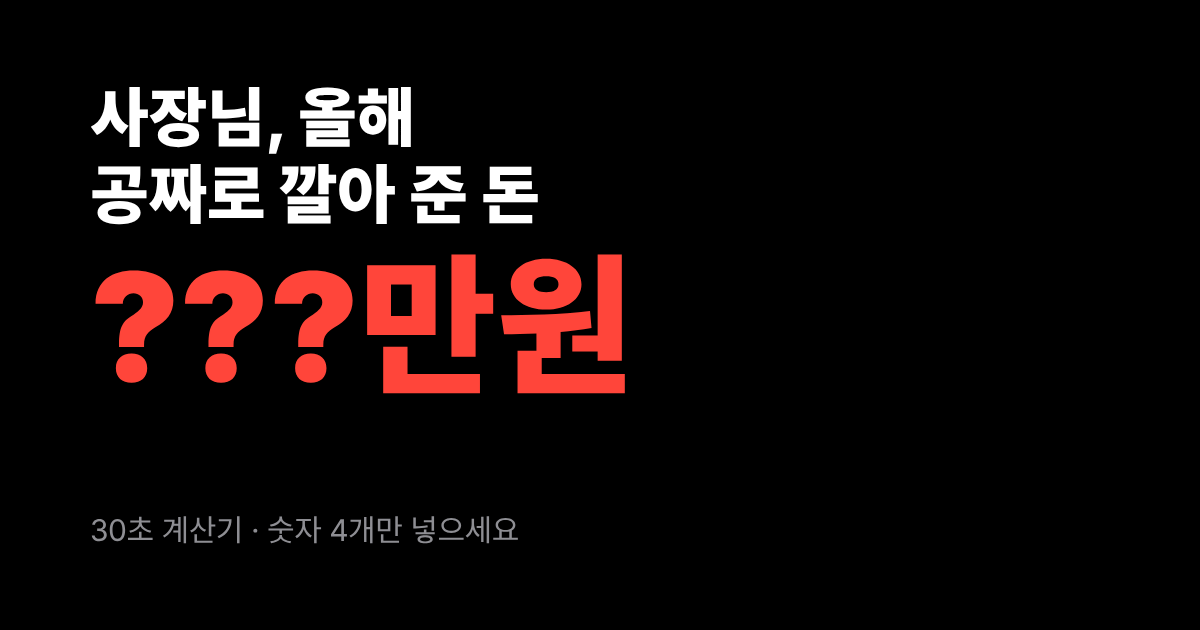
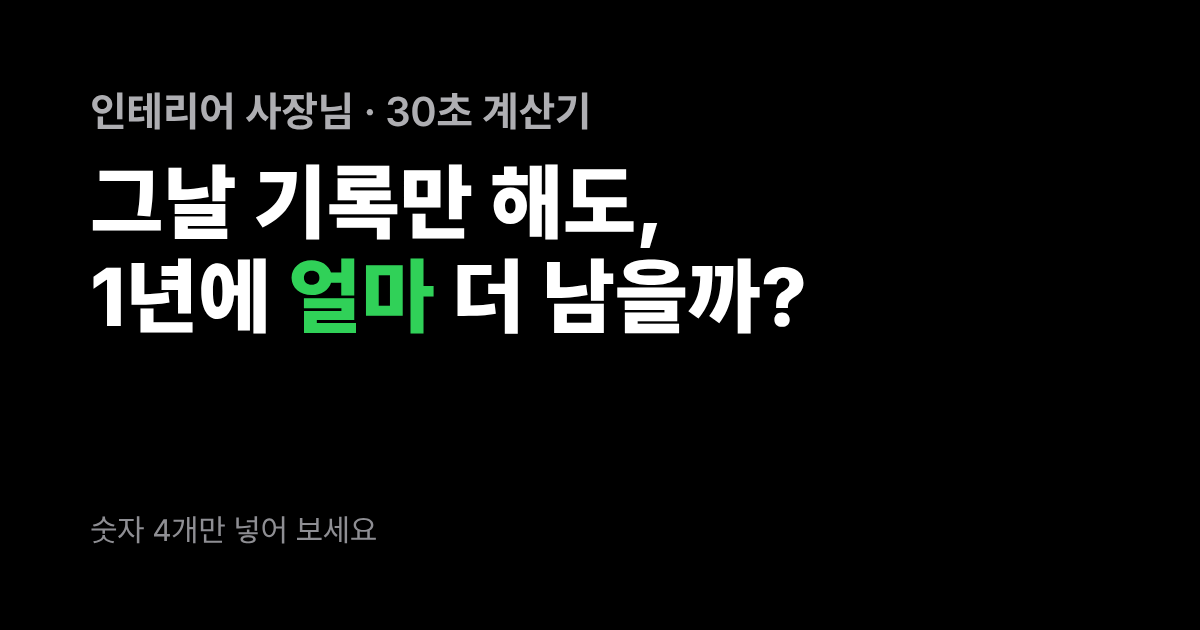
톤 정리: 누구 잘못도 아니고 둘 다 편해지게 (첫 화면, 계산기, 잔금 날 준비 체크, 미리보기 이미지)
Claude-Session: https://claude.ai/code/session_012R1LV9spP6UdVPtaoqqHFi

Changed region(s): [[0.0617, 0.1206, 0.6783, 0.6333], [0.0617, 0.8143, 0.4317, 0.8746]]

diff --git a/guide.html b/guide.html
@@ -20,7 +20,7 @@
 <meta name="naver-site-verification" content="c26779d6ccafb0ff2d4798c097d1d4aee5e84662">
 <link rel="icon" href="/favicon.svg" type="image/svg+xml">
 <link rel="stylesheet" href="/style.css">
-<script type="application/ld+json">{"@context": "https://schema.org", "@type": "CollectionPage", "name": "가이드", "url": "https://www.someonehastosayyes.com/guide", "hasPart": [{"@type": "Article", "headline": "추가공사할 때 고객한테 뭘 받아 둬야 나중에 안 싸우나요?", "url": "https://www.someonehastosayyes.com/guide/what-to-record"}, {"@type": "Article", "headline": "추가공사 금액, 고객 기분 안 상하게 말하는 법 (문장 10개)", "url": "https://www.someonehastosayyes.com/guide/how-to-talk-price"}, {"@type": "Article", "headline": "카톡으로 고객 확인 받는 3가지 방법", "url": "https://www.someonehastosayyes.com/guide/kakao-customer-confirm-methods"}, {"@type": "Article", "headline": "서비스로 해 준 것도 기록해 둬야 하나요?", "url": "https://www.someonehastosayyes.com/guide/record-free-service"}, {"@type": "Article", "headline": "고객이 전화로만 추가공사를 요청하면 어떻게 기록하죠?", "url": "https://www.someonehastosayyes.com/guide/phone-request-record"}, {"@type": "Article", "headline": "인테리어 잔금 정산서 만드는 법 (계산기 무료)", "url": "https://www.someonehastosayyes.com/guide/balance-settlement-sheet"}, {"@type": "Article", "headline": "잔금 날 고객이 깎아 달라고 하면 어떻게 대응하죠?", "url": "https://www.someonehastosayyes.com/guide/balance-day-discount"}, {"@type": "Article", "headline": "인테리어 추가공사 기록하는 방법·도구 비교 (종이·카톡·엑셀·앱)", "url": "https://www.someonehastosayyes.com/guide/extra-work-tools-compared"}, {"@type": "Article", "headline": "인테리어 추가공사 바가지 안 쓰는 법 5가지", "url": "https://www.someonehastosayyes.com/guide/homeowner-avoid-overcharge"}, {"@type": "Article", "headline": "인테리어 업체 고를 때 뭘 확인해야 해요? (체크리스트)", "url": "https://www.someonehastosayyes.com/guide/choose-contractor"}]}</script>
+<script type="application/ld+json">{"@context": "https://schema.org", "@type": "CollectionPage", "name": "가이드", "url": "https://www.someonehastosayyes.com/guide", "hasPart": [{"@type": "Article", "headline": "추가공사할 때 고객한테 뭘 받아 둬야 나중에 안 싸우나요?", "url": "https://www.someonehastosayyes.com/guide/what-to-record"}, {"@type": "Article", "headline": "추가공사 금액, 고객 기분 안 상하게 말하는 법 (문장 10개)", "url": "https://www.someonehastosayyes.com/guide/how-to-talk-price"}, {"@type": "Article", "headline": "카톡으로 고객 확인 받는 3가지 방법", "url": "https://www.someonehastosayyes.com/guide/kakao-customer-confirm-methods"}, {"@type": "Article", "headline": "서비스로 해 준 것도 기록해 둬야 하나요?", "url": "https://www.someonehastosayyes.com/guide/record-free-service"}, {"@type": "Article", "headline": "고객이 전화로만 추가공사를 요청하면 어떻게 기록하죠?", "url": "https://www.someonehastosayyes.com/guide/phone-request-record"}, {"@type": "Article", "headline": "인테리어 잔금 정산서 만드는 법 (계산기 무료)", "url": "https://www.someonehastosayyes.com/guide/balance-settlement-sheet"}, {"@type": "Article", "headline": "잔금 날 고객이 깎아 달라고 하면 어떻게 대응하죠?", "url": "https://www.someonehastosayyes.com/guide/balance-day-discount"}, {"@type": "Article", "headline": "인테리어 추가공사 기록하는 방법·도구 비교 (종이·카톡·엑셀·앱)", "url": "https://www.someonehastosayyes.com/guide/extra-work-tools-compared"}, {"@type": "Article", "headline": "인테리어 추가공사, 잔금 날 깔끔하게 끝내는 법 5가지", "url": "https://www.someonehastosayyes.com/guide/homeowner-avoid-overcharge"}, {"@type": "Article", "headline": "인테리어 업체 고를 때 뭘 확인해야 해요? (체크리스트)", "url": "https://www.someonehastosayyes.com/guide/choose-contractor"}]}</script>
 </head>
 <body>
 <header class="nav"><nav class="nav-in" aria-label="주 메뉴">
@@ -30,7 +30,7 @@
   <a class="pill" href="/try">체험하기</a>
 </nav></header>
 <main>
-<section class="band" style="padding-top:72px"><div class="wrap"><h1 style="font-size:clamp(40px,6vw,56px);margin:0">가이드</h1><p style="font-size:21px;color:var(--sub);margin:12px 0 0">추가공사를 그때그때 남기고, 잔금 때 깔끔하게 받는 방법.</p><h2 style="font-size:28px;text-align:left;margin:48px 0 18px">사장님을 위한 글</h2><div class="cards"><a class="card" href="/guide/what-to-record"><span class="tag">사장님을 위한 글</span><b>추가공사할 때 고객한테 뭘 받아 둬야 나중에 안 싸우나요?</b><p>내용, 금액, 일정, 고객의 확인 네 가지를 한 메시지에 남기면 됩니다. 이 네 가지가 같이 있어야 잔금 때 “그건 서비스인 줄 알았다”는 말이 나오지 않습니다.</p></a><a class="card" href="/guide/how-to-talk-price"><span class="tag">사장님을 위한 글</span><b>추가공사 금액, 고객 기분 안 상하게 말하는 법 (문장 10개)</b><p>추가 요청을 받은 그 자리에서 금액을 먼저 말하고, 바로 정리해서 보내는 것이 가장 덜 어색합니다. 미루면 잔금 때 같은 말이 ‘청구’로 들립니다.</p></a><a class="card" href="/guide/kakao-customer-confirm-methods"><span class="tag">사장님을 위한 글</span><b>카톡으로 고객 확인 받는 3가지 방법</b><p>① 정리 문구를 보내고 “확인했습니다” 답 받기, ② 확인서 사진이나 PDF를 보내고 답 받기, ③ 고객이 링크에서 [확인]을 누르게 하기. 세 방법 모두 내용·금액·일정이 고객 확인과 함께 남는다는 점이 핵심입니다.</p></a><a class="card" href="/guide/record-free-service"><span class="tag">사장님을 위한 글</span><b>서비스로 해 준 것도 기록해 둬야 하나요?</b><p>네, ‘서비스 0원’으로 기록해 두는 것이 좋습니다. 무엇이 공짜였는지가 남아 있어야 나머지 추가공사가 유료였다는 것도 분명해집니다.</p></a><a class="card" href="/guide/phone-request-record"><span class="tag">사장님을 위한 글</span><b>고객이 전화로만 추가공사를 요청하면 어떻게 기록하죠?</b><p>전화를 끊고 1분 안에 통화 내용을 카톡으로 정리해 보내고 고객 확인을 받으세요. 통화 자체보다 ‘통화 직후의 정리 메시지’가 훨씬 강한 기록입니다.</p></a><a class="card" href="/guide/balance-settlement-sheet"><span class="tag">사장님을 위한 글</span><b>인테리어 잔금 정산서 만드는 법 (계산기 무료)</b><p>잔금 = 기본 계약 금액 + 고객이 확인한 추가공사 합계 − 이미 받은 금액입니다. 확인받지 않은 추가공사는 따로 표시하고, 정산서는 잔금 날 3~5일 전에 미리 보내세요.</p></a><a class="card" href="/guide/balance-day-discount"><span class="tag">사장님을 위한 글</span><b>잔금 날 고객이 깎아 달라고 하면 어떻게 대응하죠?</b><p>감정 대신 확인 기록을 함께 보면서 ‘이미 합의한 금액’과 ‘새로운 요청’을 나누세요. 하자 지적은 잔금과 섞지 말고 보수 목록으로 따로 정리하는 것이 핵심입니다.</p></a><a class="card" href="/guide/extra-work-tools-compared"><span class="tag">사장님을 위한 글</span><b>인테리어 추가공사 기록하는 방법·도구 비교 (종이·카톡·엑셀·앱)</b><p>가장 중요한 건 도구가 아니라 매번 내용·금액·고객 확인을 남기는 습관입니다. 현장에서 바쁜 사장님이라면 고객이 직접 ‘확인’을 누르는 방식이 가장 빠르고 확실합니다.</p></a></div><h2 style="font-size:28px;text-align:left;margin:48px 0 18px">집주인을 위한 글</h2><div class="cards"><a class="card" href="/guide/homeowner-avoid-overcharge"><span class="tag">집주인을 위한 글</span><b>인테리어 추가공사 바가지 안 쓰는 법 5가지</b><p>추가공사 바가지는 대부분 ‘금액을 정하지 않고 진행한 공사’에서 생깁니다. 요청 전 금액 확인, 견적서 대조, 건별 확인서, 잔금 전 정산 확인 네 단계만 지키면 대부분 막을 수 있습니다.</p></a><a class="card" href="/guide/choose-contractor"><span class="tag">집주인을 위한 글</span><b>인테리어 업체 고를 때 뭘 확인해야 해요? (체크리스트)</b><p>포트폴리오와 가격만큼 중요한 건 ‘계약과 변경을 어떻게 처리하는 업체인가’입니다. 항목별 견적서, 계약서 작성, 변경 사항 확인서, 하자 보수 약속을 먼저 확인하세요.</p></a></div></div></section>
+<section class="band" style="padding-top:72px"><div class="wrap"><h1 style="font-size:clamp(40px,6vw,56px);margin:0">가이드</h1><p style="font-size:21px;color:var(--sub);margin:12px 0 0">추가공사를 그때그때 남기고, 잔금 때 깔끔하게 받는 방법.</p><h2 style="font-size:28px;text-align:left;margin:48px 0 18px">사장님을 위한 글</h2><div class="cards"><a class="card" href="/guide/what-to-record"><span class="tag">사장님을 위한 글</span><b>추가공사할 때 고객한테 뭘 받아 둬야 나중에 안 싸우나요?</b><p>내용, 금액, 일정, 고객의 확인 네 가지를 한 메시지에 남기면 됩니다. 이 네 가지가 같이 있어야 잔금 때 “그건 서비스인 줄 알았다”는 말이 나오지 않습니다.</p></a><a class="card" href="/guide/how-to-talk-price"><span class="tag">사장님을 위한 글</span><b>추가공사 금액, 고객 기분 안 상하게 말하는 법 (문장 10개)</b><p>추가 요청을 받은 그 자리에서 금액을 먼저 말하고, 바로 정리해서 보내는 것이 가장 덜 어색합니다. 미루면 잔금 때 같은 말이 ‘청구’로 들립니다.</p></a><a class="card" href="/guide/kakao-customer-confirm-methods"><span class="tag">사장님을 위한 글</span><b>카톡으로 고객 확인 받는 3가지 방법</b><p>① 정리 문구를 보내고 “확인했습니다” 답 받기, ② 확인서 사진이나 PDF를 보내고 답 받기, ③ 고객이 링크에서 [확인]을 누르게 하기. 세 방법 모두 내용·금액·일정이 고객 확인과 함께 남는다는 점이 핵심입니다.</p></a><a class="card" href="/guide/record-free-service"><span class="tag">사장님을 위한 글</span><b>서비스로 해 준 것도 기록해 둬야 하나요?</b><p>네, ‘서비스 0원’으로 기록해 두는 것이 좋습니다. 무엇이 공짜였는지가 남아 있어야 나머지 추가공사가 유료였다는 것도 분명해집니다.</p></a><a class="card" href="/guide/phone-request-record"><span class="tag">사장님을 위한 글</span><b>고객이 전화로만 추가공사를 요청하면 어떻게 기록하죠?</b><p>전화를 끊고 1분 안에 통화 내용을 카톡으로 정리해 보내고 고객 확인을 받으세요. 통화 자체보다 ‘통화 직후의 정리 메시지’가 훨씬 강한 기록입니다.</p></a><a class="card" href="/guide/balance-settlement-sheet"><span class="tag">사장님을 위한 글</span><b>인테리어 잔금 정산서 만드는 법 (계산기 무료)</b><p>잔금 = 기본 계약 금액 + 고객이 확인한 추가공사 합계 − 이미 받은 금액입니다. 확인받지 않은 추가공사는 따로 표시하고, 정산서는 잔금 날 3~5일 전에 미리 보내세요.</p></a><a class="card" href="/guide/balance-day-discount"><span class="tag">사장님을 위한 글</span><b>잔금 날 고객이 깎아 달라고 하면 어떻게 대응하죠?</b><p>감정 대신 확인 기록을 함께 보면서 ‘이미 합의한 금액’과 ‘새로운 요청’을 나누세요. 하자 지적은 잔금과 섞지 말고 보수 목록으로 따로 정리하는 것이 핵심입니다.</p></a><a class="card" href="/guide/extra-work-tools-compared"><span class="tag">사장님을 위한 글</span><b>인테리어 추가공사 기록하는 방법·도구 비교 (종이·카톡·엑셀·앱)</b><p>가장 중요한 건 도구가 아니라 매번 내용·금액·고객 확인을 남기는 습관입니다. 현장에서 바쁜 사장님이라면 고객이 직접 ‘확인’을 누르는 방식이 가장 빠르고 확실합니다.</p></a></div><h2 style="font-size:28px;text-align:left;margin:48px 0 18px">집주인을 위한 글</h2><div class="cards"><a class="card" href="/guide/homeowner-avoid-overcharge"><span class="tag">집주인을 위한 글</span><b>인테리어 추가공사, 잔금 날 깔끔하게 끝내는 법 5가지</b><p>잔금 날 금액이 서로 다르게 기억되는 일은 대부분 ‘금액을 정하지 않고 진행한 추가공사’에서 생깁니다. 요청 전 금액 확인, 견적서 대조, 건별 확인, 잔금 전 정산 확인 네 단계만 지키면 사장님도 고객도 편하게 끝낼 수 있습니다.</p></a><a class="card" href="/guide/choose-contractor"><span class="tag">집주인을 위한 글</span><b>인테리어 업체 고를 때 뭘 확인해야 해요? (체크리스트)</b><p>포트폴리오와 가격만큼 중요한 건 ‘계약과 변경을 어떻게 처리하는 업체인가’입니다. 항목별 견적서, 계약서 작성, 변경 사항 확인서, 하자 보수 약속을 먼저 확인하세요.</p></a></div></div></section>
 </main>
 <footer><div class="wrap">
   <p><a href="/guide">가이드</a><a href="/free">무료 양식</a><a href="/glossary">용어 사전</a><a href="/try">체험하기</a><a href="/about">소개</a></p>

diff --git a/guide/homeowner-avoid-overcharge.html b/guide/homeowner-avoid-overcharge.html
@@ -3,13 +3,13 @@
 <head>
 <meta charset="utf-8">
 <meta name="viewport" content="width=device-width, initial-scale=1">
-<title>인테리어 추가공사 바가지 안 쓰는 법 5가지 | 추가공사 확인</title>
-<meta name="description" content="추가공사 바가지는 대부분 ‘금액을 정하지 않고 진행한 공사’에서 생깁니다. 요청 전 금액 확인, 견적서 대조, 건별 확인서, 잔금 전 정산 확인 네 단계만 지키면 대부분 막을 수 있습니다.">
+<title>인테리어 추가공사, 잔금 날 깔끔하게 끝내는 법 5가지 | 추가공사 확인</title>
+<meta name="description" content="잔금 날 금액이 서로 다르게 기억되는 일은 대부분 ‘금액을 정하지 않고 진행한 추가공사’에서 생깁니다. 요청 전 금액 확인, 견적서 대조, 건별 확인, 잔금 전 정산 확인 네 단계만 지키면 사장님도 고객도 편하게 끝낼 수 있습니다.">
 <link rel="canonical" href="https://www.someonehastosayyes.com/guide/homeowner-avoid-overcharge">
 <meta property="og:type" content="article">
 <meta property="og:site_name" content="추가공사 확인">
-<meta property="og:title" content="인테리어 추가공사 바가지 안 쓰는 법 5가지">
-<meta property="og:description" content="추가공사 바가지는 대부분 ‘금액을 정하지 않고 진행한 공사’에서 생깁니다. 요청 전 금액 확인, 견적서 대조, 건별 확인서, 잔금 전 정산 확인 네 단계만 지키면 대부분 막을 수 있습니다.">
+<meta property="og:title" content="인테리어 추가공사, 잔금 날 깔끔하게 끝내는 법 5가지">
+<meta property="og:description" content="잔금 날 금액이 서로 다르게 기억되는 일은 대부분 ‘금액을 정하지 않고 진행한 추가공사’에서 생깁니다. 요청 전 금액 확인, 견적서 대조, 건별 확인, 잔금 전 정산 확인 네 단계만 지키면 사장님도 고객도 편하게 끝낼 수 있습니다.">
 <meta property="og:url" content="https://www.someonehastosayyes.com/guide/homeowner-avoid-overcharge">
 <meta property="og:locale" content="ko_KR">
 <meta property="og:image" content="https://www.someonehastosayyes.com/og/home.png">
@@ -20,7 +20,7 @@
 <meta name="naver-site-verification" content="c26779d6ccafb0ff2d4798c097d1d4aee5e84662">
 <link rel="icon" href="/favicon.svg" type="image/svg+xml">
 <link rel="stylesheet" href="/style.css">
-<script type="application/ld+json">{"@context": "https://schema.org", "@type": "Article", "headline": "인테리어 추가공사 바가지 안 쓰는 법 5가지", "description": "추가공사 바가지는 대부분 ‘금액을 정하지 않고 진행한 공사’에서 생깁니다. 요청 전 금액 확인, 견적서 대조, 건별 확인서, 잔금 전 정산 확인 네 단계만 지키면 대부분 막을 수 있습니다.", "datePublished": "2026-11-08", "dateModified": "2026-11-08", "inLanguage": "ko-KR", "mainEntityOfPage": "https://www.someonehastosayyes.com/guide/homeowner-avoid-overcharge", "author": {"@type": "Organization", "name": "Someone Has To Say Yes", "url": "https://www.someonehastosayyes.com/about", "email": "hello@someonehastosayyes.com"}, "publisher": {"@type": "Organization", "name": "Someone Has To Say Yes", "url": "https://www.someonehastosayyes.com", "logo": {"@type": "ImageObject", "url": "https://www.someonehastosayyes.com/logo.png"}}, "citation": ["https://www.lawtalk.co.kr/posts/164955"]}</script><script type="application/ld+json">{"@context": "https://schema.org", "@type": "FAQPage", "mainEntity": [{"@type": "Question", "name": "업체가 확인서를 귀찮아해요.", "acceptedAnswer": {"@type": "Answer", "text": "카톡 한 줄이면 된다고 말해 보세요. 변경 사항을 기록하는 업체가 대체로 정산도 깔끔합니다."}}, {"@type": "Question", "name": "추가공사 적정 단가를 어떻게 알죠?", "acceptedAnswer": {"@type": "Answer", "text": "다른 업체 견적과 비교하거나, 자재·인건비 내역을 나눠 달라고 요청하세요."}}, {"@type": "Question", "name": "계약금을 많이 달라고 해요.", "acceptedAnswer": {"@type": "Answer", "text": "공사 진행에 맞춰 나눠 지급하는 구조가 서로 안전합니다."}}]}</script><script type="application/ld+json">{"@context": "https://schema.org", "@type": "BreadcrumbList", "itemListElement": [{"@type": "ListItem", "position": 1, "name": "가이드", "item": "https://www.someonehastosayyes.com/guide"}, {"@type": "ListItem", "position": 2, "name": "인테리어 추가공사 바가지 안 쓰는 법 5가지", "item": "https://www.someonehastosayyes.com/guide/homeowner-avoid-overcharge"}]}</script>
+<script type="application/ld+json">{"@context": "https://schema.org", "@type": "Article", "headline": "인테리어 추가공사, 잔금 날 깔끔하게 끝내는 법 5가지", "description": "잔금 날 금액이 서로 다르게 기억되는 일은 대부분 ‘금액을 정하지 않고 진행한 추가공사’에서 생깁니다. 요청 전 금액 확인, 견적서 대조, 건별 확인, 잔금 전 정산 확인 네 단계만 지키면 사장님도 고객도 편하게 끝낼 수 있습니다.", "datePublished": "2026-11-08", "dateModified": "2026-11-08", "inLanguage": "ko-KR", "mainEntityOfPage": "https://www.someonehastosayyes.com/guide/homeowner-avoid-overcharge", "author": {"@type": "Organization", "name": "Someone Has To Say Yes", "url": "https://www.someonehastosayyes.com/about", "email": "hello@someonehastosayyes.com"}, "publisher": {"@type": "Organization", "name": "Someone Has To Say Yes", "url": "https://www.someonehastosayyes.com", "logo": {"@type": "ImageObject", "url": "https://www.someonehastosayyes.com/logo.png"}}, "citation": ["https://www.lawtalk.co.kr/posts/164955"]}</script><script type="application/ld+json">{"@context": "https://schema.org", "@type": "FAQPage", "mainEntity": [{"@type": "Question", "name": "사장님께 확인서를 어떻게 부탁하죠?", "acceptedAnswer": {"@type": "Answer", "text": "“추가된 건 카톡으로 한 줄씩 정리해 주실 수 있을까요?”라고 부탁해 보세요. 서로 기억을 맞춰 두는 거라 대부분 반겨요."}}, {"@type": "Question", "name": "추가공사 적정 단가를 어떻게 알죠?", "acceptedAnswer": {"@type": "Answer", "text": "다른 업체 견적과 비교하거나, 자재·인건비 내역을 나눠 달라고 요청하세요."}}, {"@type": "Question", "name": "계약금을 많이 달라고 해요.", "acceptedAnswer": {"@type": "Answer", "text": "공사 진행에 맞춰 나눠 지급하는 구조가 서로 안전합니다."}}]}</script><script type="application/ld+json">{"@context": "https://schema.org", "@type": "BreadcrumbList", "itemListElement": [{"@type": "ListItem", "position": 1, "name": "가이드", "item": "https://www.someonehastosayyes.com/guide"}, {"@type": "ListItem", "position": 2, "name": "인테리어 추가공사, 잔금 날 깔끔하게 끝내는 법 5가지", "item": "https://www.someonehastosayyes.com/guide/homeowner-avoid-overcharge"}]}</script>
 </head>
 <body>
 <header class="nav"><nav class="nav-in" aria-label="주 메뉴">
@@ -33,11 +33,11 @@
 <article class="narrow">
   <div class="art-head">
     <p class="crumb"><a href="/guide">가이드</a> › 집주인을 위한 글</p>
-    <h1>인테리어 추가공사 바가지 안 쓰는 법 5가지</h1>
+    <h1>인테리어 추가공사, 잔금 날 깔끔하게 끝내는 법 5가지</h1>
     <p class="meta">최종 업데이트 <time datetime="2026-11-08">2026. 11. 08.</time></p>
   </div>
   <div class="prose">
-    <div class="answer">추가공사 바가지는 대부분 ‘금액을 정하지 않고 진행한 공사’에서 생깁니다. 요청 전 금액 확인, 견적서 대조, 건별 확인서, 잔금 전 정산 확인 네 단계만 지키면 대부분 막을 수 있습니다.</div>
+    <div class="answer">잔금 날 금액이 서로 다르게 기억되는 일은 대부분 ‘금액을 정하지 않고 진행한 추가공사’에서 생깁니다. 요청 전 금액 확인, 견적서 대조, 건별 확인, 잔금 전 정산 확인 네 단계만 지키면 사장님도 고객도 편하게 끝낼 수 있습니다.</div>
     <section class="glance"><h2>한눈에 보기</h2><ul><li>>
 <li>계약 때 견적서를 꼼꼼히 받아 두기</li>
 <</li><li> start="2">
@@ -50,17 +50,17 @@
 <li>잔금 전에 목록·합계 미리 받기</li>
 <</li></ul></section>
     <h2>5가지 자세히</h2><p><strong>1. 견적서가 기준입니다.</strong> 견적서에 있는 범위면 추가가 아닙니다. 계약할 때 항목별 견적서를 받아 두세요.</p>
-<p><strong>2. 금액 먼저.</strong> “이것도 해 주세요” 다음에 “얼마예요?”를 붙이세요. 금액 없이 진행한 공사가 나중에 가장 크게 불어납니다.</p>
-<p><strong>3. 건별 확인서.</strong> 추가될 때마다 내용·금액·일정을 카톡으로 정리받으세요. 업체가 보내 주지 않으면 “정리해서 보내 주세요”라고 요청하세요.</p>
+<p><strong>2. 금액 먼저.</strong> “이것도 해 주세요” 다음에 “얼마예요?”를 붙이세요. 금액 없이 진행한 공사가 나중에 서로 다르게 기억되기 쉽습니다.</p>
+<p><strong>3. 건별 확인서.</strong> 추가될 때마다 내용·금액·일정을 카톡으로 정리받으세요. 먼저 “정리해서 보내 주실 수 있을까요?”라고 부탁해도 좋아요.</p>
 <p><strong>4. 서비스 확인.</strong> 무료라고 들었으면 “서비스 맞죠?”라고 남겨 두세요.</p>
-<p><strong>5. 잔금 전 정산.</strong> 잔금 며칠 전에 추가공사 목록과 합계를 받아 견적서·확인서와 맞춰 보세요.</p><h2>이미 이상한 청구를 받았다면</h2><p>업체가 추가금을 받으려면 추가공사와 대금 합의를 증명해야 합니다 (<a href="https://www.lawtalk.co.kr/posts/164955" target="_blank" rel="noopener">로톡</a>). 항목별 근거를 요청하고, 합의한 적 없는 항목만 따로 이야기하세요. 자세한 내용은 업체가 추가금을 달라는데 꼭 내야 하나요?를 보세요.</p>
+<p><strong>5. 잔금 전 정산.</strong> 잔금 며칠 전에 추가공사 목록과 합계를 받아 견적서·확인서와 맞춰 보세요.</p><h2>잔금 때 금액이 예상과 다르다면</h2><p>업체가 추가금을 받으려면 추가공사와 대금 합의를 증명해야 합니다 (<a href="https://www.lawtalk.co.kr/posts/164955" target="_blank" rel="noopener">로톡</a>). 항목별로 함께 맞춰 보고, 서로 기억이 다른 항목만 따로 이야기하세요. 자세한 내용은 업체가 추가금을 달라는데 꼭 내야 하나요?를 보세요.</p>
     <section class="prevent"><h2>집주인이 미리 할 수 있는 것</h2><ol>
 <li><strong>계약할 때 한 문장 요청:</strong> “공사 중 바뀌거나 추가되는 건 그때그때 내용·금액을 카톡이나 확인서로 주세요.”</li>
 <li><strong>추가 요청은 금액부터:</strong> “이것도 해 주세요” 다음에 “얼마예요?”를 꼭 붙이세요. 서비스라면 “서비스 맞죠?”라고 확인해 두세요.</li>
 <li><strong>받은 확인서는 보관:</strong> 확인서나 카톡을 지우지 말고, 잔금 전에 목록과 합계를 한 번 맞춰 보세요.</li>
 </ol>
 <p>변경 사항마다 확인서를 주는 업체는 대체로 정산도 깔끔합니다. <a href="/guide/choose-contractor">업체 고를 때 체크리스트</a>도 참고하세요.</p></section>
-    <section class="faq"><h2>자주 묻는 질문</h2><details><summary>업체가 확인서를 귀찮아해요.</summary><div><p>카톡 한 줄이면 된다고 말해 보세요. 변경 사항을 기록하는 업체가 대체로 정산도 깔끔합니다.</p></div></details><details><summary>추가공사 적정 단가를 어떻게 알죠?</summary><div><p>다른 업체 견적과 비교하거나, 자재·인건비 내역을 나눠 달라고 요청하세요.</p></div></details><details><summary>계약금을 많이 달라고 해요.</summary><div><p>공사 진행에 맞춰 나눠 지급하는 구조가 서로 안전합니다.</p></div></details></section>
+    <section class="faq"><h2>자주 묻는 질문</h2><details><summary>사장님께 확인서를 어떻게 부탁하죠?</summary><div><p>“추가된 건 카톡으로 한 줄씩 정리해 주실 수 있을까요?”라고 부탁해 보세요. 서로 기억을 맞춰 두는 거라 대부분 반겨요.</p></div></details><details><summary>추가공사 적정 단가를 어떻게 알죠?</summary><div><p>다른 업체 견적과 비교하거나, 자재·인건비 내역을 나눠 달라고 요청하세요.</p></div></details><details><summary>계약금을 많이 달라고 해요.</summary><div><p>공사 진행에 맞춰 나눠 지급하는 구조가 서로 안전합니다.</p></div></details></section>
     <section class="sources"><h2>출처</h2><ul><li><a href="https://www.lawtalk.co.kr/posts/164955" target="_blank" rel="noopener">공사대금 증액 분쟁 — 추가공사 지시받았는데 계약서에 없다면 (로톡)</a></li></ul><p class="disclaimer">이 글은 일반적인 정보이며 개별 사건에 대한 법률 자문이 아닙니다. 구체적인 사건은 변호사와 상담하세요.</p></section>
   </div>
 </article>

diff --git a/ready.html b/ready.html
@@ -1,0 +1,96 @@
+<!DOCTYPE html>
+<html lang="ko">
+<head>
+<meta charset="utf-8">
+<meta name="viewport" content="width=device-width, initial-scale=1">
+<title>잔금 날, 깔끔하게 끝낼 준비 됐나요? | 추가공사 확인</title>
+<meta name="description" content="인테리어 공사 중인 집을 위한 30초 체크. 다섯 가지만 확인하면 사장님도 우리 집도 잔금 날이 편해요.">
+<link rel="canonical" href="https://www.someonehastosayyes.com/ready">
+<meta property="og:type" content="website">
+<meta property="og:site_name" content="추가공사 확인">
+<meta property="og:title" content="잔금 날, 깔끔하게 끝낼 준비 됐나요?">
+<meta property="og:description" content="인테리어 공사 중인 집을 위한 30초 체크. 다섯 가지만 확인하면 사장님도 우리 집도 잔금 날이 편해요.">
+<meta property="og:url" content="https://www.someonehastosayyes.com/ready">
+<meta property="og:locale" content="ko_KR">
+<meta property="og:image" content="https://www.someonehastosayyes.com/og/ready.png">
+<meta property="og:image:width" content="1200">
+<meta property="og:image:height" content="630">
+<meta name="twitter:card" content="summary_large_image">
+<meta name="theme-color" content="#FFFFFF">
+<meta name="naver-site-verification" content="c26779d6ccafb0ff2d4798c097d1d4aee5e84662">
+<link rel="icon" href="/favicon.svg" type="image/svg+xml">
+<link rel="stylesheet" href="/style.css">
+<script type="application/ld+json">{"@context": "https://schema.org", "@type": "WebApplication", "name": "잔금 날 준비 체크", "applicationCategory": "LifestyleApplication", "operatingSystem": "Web", "offers": {"@type": "Offer", "price": "0", "priceCurrency": "KRW"}, "url": "https://www.someonehastosayyes.com/ready"}</script>
+</head>
+<body>
+<header class="nav"><nav class="nav-in" aria-label="주 메뉴">
+  <a class="brand" href="/"><i aria-hidden="true">✓</i>추가공사 확인</a>
+  <a href="/guide">가이드</a>
+  <a class="hide-s" href="/free">무료 양식</a>
+  <a class="pill" href="/try">체험하기</a>
+</nav></header>
+<main>
+<section class="tool">
+  <div class="friend" id="friend"></div>
+  <h1>잔금 날, 깔끔하게 끝낼 준비 됐나요?</h1>
+  <p class="sub">인테리어 공사 중이라면 30초만. 다섯 가지만 확인하면 사장님도 우리 집도 잔금 날이 편해요.</p>
+  <div class="q"><span class="ql">1. 추가로 부탁한 것마다 금액을 알고 있다</span><div class="yn" data-i="0"><button type="button" data-v="1">네</button><button type="button" data-v="0">아직이요</button></div></div><div class="q"><span class="ql">2. 부탁한 내용이 카톡이나 문자로 남아 있다</span><div class="yn" data-i="1"><button type="button" data-v="1">네</button><button type="button" data-v="0">아직이요</button></div></div><div class="q"><span class="ql">3. ‘서비스’로 해 주신 것은 서비스라고 서로 확인했다</span><div class="yn" data-i="2"><button type="button" data-v="1">네</button><button type="button" data-v="0">아직이요</button></div></div><div class="q"><span class="ql">4. 일정이 바뀐 것이 있다면 언제까지인지 알고 있다</span><div class="yn" data-i="3"><button type="button" data-v="1">네</button><button type="button" data-v="0">아직이요</button></div></div><div class="q"><span class="ql">5. 잔금 전에 추가공사 목록과 합계를 받기로 했다</span><div class="yn" data-i="4"><button type="button" data-v="1">네</button><button type="button" data-v="0">아직이요</button></div></div>
+  <div id="res" class="hidden">
+    <div class="result" aria-live="polite"><div class="lab">우리 집 잔금 날 준비</div><div class="num" id="level"></div><p id="desc"></p></div>
+    <div class="tips"><b>이렇게 하면 더 편해요</b><ol>
+      <li>사장님께 “추가된 것 목록이랑 금액, 정리해서 보내 주실 수 있을까요?”라고 부탁해 보세요.</li>
+      <li>앞으로 추가로 부탁할 때는 “얼마 정도일까요?”를 같이 여쭤보세요.</li>
+      <li>받은 목록은 잘 보관해 두고, 잔금 날 합계를 함께 맞춰 보세요.</li>
+    </ol></div>
+    <div class="actions">
+      <button class="pill kakao-btn" id="toOwner" type="button">사장님께 정리 부탁드리기</button>
+      <button class="pill light" id="toFriend" type="button">공사 중인 친구한테 보내기</button>
+    </div>
+    <p class="note">답한 내용은 저장하지 않아요.</p>
+  </div>
+</section>
+<script>
+
+function share(text, url) {
+  var full = text + '\n' + url;
+  if (navigator.share) { navigator.share({ text: text, url: url }).catch(function () {}); return; }
+  var done = function () { var t = document.createElement('div'); t.className = 'toast2'; t.textContent = '복사됐어요. 카톡 대화방에 붙여 넣으세요'; document.body.appendChild(t); setTimeout(function () { t.remove(); }, 2200); };
+  if (navigator.clipboard) navigator.clipboard.writeText(full).then(done, done); else { window.prompt('복사해서 보내세요', full); }
+}
+
+var A = {};
+var LV = [['미리 정리해 두면 좋아요', '지금 사장님께 한 번 정리를 부탁드리면 잔금 날이 훨씬 편해져요.'], ['미리 정리해 두면 좋아요', '지금 사장님께 한 번 정리를 부탁드리면 잔금 날이 훨씬 편해져요.'],
+  ['거의 다 됐어요', '빠진 것만 사장님과 한 번 맞춰 두면 돼요.'], ['거의 다 됐어요', '빠진 것만 사장님과 한 번 맞춰 두면 돼요.'],
+  ['거의 다 됐어요', '빠진 것만 사장님과 한 번 맞춰 두면 돼요.'], ['준비 완료', '사장님과 이미 잘 정리돼 있어요. 잔금 날 편하게 끝낼 수 있어요.']];
+function show() {
+  if (Object.keys(A).length < 5) return;
+  var s = 0; for (var k in A) s += A[k];
+  var r = document.getElementById('res'); r.classList.remove('hidden');
+  var lv = document.getElementById('level'); lv.textContent = LV[s][0]; lv.style.fontSize = '40px';
+  document.getElementById('desc').textContent = '5개 중 ' + s + '개 준비 · ' + LV[s][1];
+  r.dataset.s = s;
+  if (!show.done) { show.done = 1; r.scrollIntoView({ behavior: 'smooth', block: 'start' }); }
+}
+document.querySelectorAll('.yn').forEach(function (g) {
+  g.querySelectorAll('button').forEach(function (b) {
+    b.onclick = function () { g.querySelectorAll('button').forEach(function (x) { x.classList.remove('on'); }); b.classList.add('on'); A[g.dataset.i] = +b.dataset.v; show(); };
+  });
+});
+var f = new URLSearchParams(location.search).get('r');
+if (f && LV[+f]) { var fb = document.getElementById('friend'); fb.style.display = 'block'; fb.textContent = '친구네 집은 “' + LV[+f][0] + '”이래요. 우리 집도 확인해 볼까요?'; }
+document.getElementById('toOwner').onclick = function () {
+  share('사장님~ 추가로 부탁드린 것들, 금액이랑 같이 카톡으로 한 줄씩 정리해 주실 수 있을까요? 이걸로 보내 주시면 저는 확인만 누르면 된대요 :)', 'https://www.someonehastosayyes.com/try');
+};
+document.getElementById('toFriend').onclick = function () {
+  var s = document.getElementById('res').dataset.s || 0;
+  share('인테리어 잔금 날 준비 체크 해 봤는데 “' + LV[s][0] + '” 나왔어. 공사 중이면 너도 해 봐', 'https://www.someonehastosayyes.com/ready?r=' + s);
+};
+</script>
+</main>
+<footer><div class="wrap">
+  <p><a href="/guide">가이드</a><a href="/free">무료 양식</a><a href="/glossary">용어 사전</a><a href="/try">체험하기</a><a href="/about">소개</a></p>
+  <p>인테리어 추가공사를 그때그때 기록하고, 고객 확인까지 받는 무료 도구입니다.<br>이 사이트의 글은 일반적인 정보이며 개별 사건에 대한 법률 자문이 아닙니다.</p>
+  <p>Someone Has To Say Yes · <a href="mailto:hello@someonehastosayyes.com" style="margin:0">hello@someonehastosayyes.com</a> · 최종 업데이트 2026-11-08</p>
+</div></footer>
+</body>
+</html>

diff --git a/loss.html b/loss.html
@@ -3,13 +3,13 @@
 <head>
 <meta charset="utf-8">
 <meta name="viewport" content="width=device-width, initial-scale=1">
-<title>사장님, 올해 공짜로 깔아 준 돈 얼마예요? | 추가공사 확인</title>
-<meta name="description" content="추가공사 서비스로 날린 돈 30초 계산기. 한 달 현장 수, 추가공사 건수, 평균 금액만 넣으면 1년 손해가 나와요.">
+<title>그날 기록만 해도, 1년에 얼마 더 남을까? | 추가공사 확인</title>
+<meta name="description" content="인테리어 추가공사를 그날 기록하면 1년에 얼마나 더 남는지 30초 만에 계산해 보세요. 한 달 현장 수, 추가공사 건수, 평균 금액만 넣으면 돼요.">
 <link rel="canonical" href="https://www.someonehastosayyes.com/loss">
 <meta property="og:type" content="website">
 <meta property="og:site_name" content="추가공사 확인">
-<meta property="og:title" content="사장님, 올해 공짜로 깔아 준 돈 얼마예요?">
-<meta property="og:description" content="추가공사 서비스로 날린 돈 30초 계산기. 한 달 현장 수, 추가공사 건수, 평균 금액만 넣으면 1년 손해가 나와요.">
+<meta property="og:title" content="그날 기록만 해도, 1년에 얼마 더 남을까?">
+<meta property="og:description" content="인테리어 추가공사를 그날 기록하면 1년에 얼마나 더 남는지 30초 만에 계산해 보세요. 한 달 현장 수, 추가공사 건수, 평균 금액만 넣으면 돼요.">
 <meta property="og:url" content="https://www.someonehastosayyes.com/loss">
 <meta property="og:locale" content="ko_KR">
 <meta property="og:image" content="https://www.someonehastosayyes.com/og/loss.png">
@@ -20,7 +20,7 @@
 <meta name="naver-site-verification" content="c26779d6ccafb0ff2d4798c097d1d4aee5e84662">
 <link rel="icon" href="/favicon.svg" type="image/svg+xml">
 <link rel="stylesheet" href="/style.css">
-<script type="application/ld+json">{"@context": "https://schema.org", "@type": "WebApplication", "name": "추가공사 공짜 계산기", "applicationCategory": "BusinessApplication", "operatingSystem": "Web", "offers": {"@type": "Offer", "price": "0", "priceCurrency": "KRW"}, "url": "https://www.someonehastosayyes.com/loss"}</script>
+<script type="application/ld+json">{"@context": "https://schema.org", "@type": "WebApplication", "name": "추가공사 기록 계산기", "applicationCategory": "BusinessApplication", "operatingSystem": "Web", "offers": {"@type": "Offer", "price": "0", "priceCurrency": "KRW"}, "url": "https://www.someonehastosayyes.com/loss"}</script>
 </head>
 <body>
 <header class="nav"><nav class="nav-in" aria-label="주 메뉴">
@@ -32,8 +32,8 @@
 <main>
 <section class="tool">
   <div class="friend" id="friend"></div>
-  <h1>사장님, 올해 공짜로 깔아 준 돈 얼마예요?</h1>
-  <p class="sub">“서비스인 줄 알았어요” 한마디에 날아간 추가공사비. 숫자 4개만 넣어 보세요.</p>
+  <h1>그날 기록만 해도, 1년에 이만큼 더 남아요.</h1>
+  <p class="sub">추가공사를 그날 한 줄로 남겨 두면 잔금 때 빠짐없이 받을 수 있어요. 숫자 4개만 넣어 보세요.</p>
 
   <div class="q"><span class="ql">한 달에 현장 몇 곳 하세요?</span>
     <div class="stepper" data-k="jobs" data-min="1" data-max="30" data-step="1"><button type="button" aria-label="줄이기">−</button><output>4곳</output><button type="button" aria-label="늘리기">+</button></div></div>
@@ -41,17 +41,17 @@
     <div class="stepper" data-k="extras" data-min="1" data-max="20" data-step="1"><button type="button" aria-label="줄이기">−</button><output>3건</output><button type="button" aria-label="늘리기">+</button></div></div>
   <div class="q"><span class="ql">한 건에 보통 얼마예요?</span>
     <div class="stepper" data-k="amt" data-min="1" data-max="200" data-step="1"><button type="button" aria-label="줄이기">−</button><output>15만원</output><button type="button" aria-label="늘리기">+</button></div></div>
-  <div class="q"><span class="ql">그중 못 받거나 깎아 준 건 몇 %쯤?</span>
+  <div class="q"><span class="ql">그중 정산 때 빠지거나 흐지부지된 건 몇 %쯤?</span>
     <div class="seg2" id="rate"><button type="button" data-v="10">10%</button><button type="button" data-v="20">20%</button><button type="button" data-v="30" class="on">30%</button><button type="button" data-v="50">50%</button></div></div>
 
   <div class="result" aria-live="polite">
-    <div class="lab">1년 동안 공짜로 깔아 준 돈</div>
-    <div class="num hot" id="year">0원</div>
+    <div class="lab">기록만 해도 1년에 더 남는 돈</div>
+    <div class="num" id="year" style="color:#30D158">0원</div>
     <p id="per"></p>
   </div>
   <div class="actions">
     <button class="pill kakao-btn" id="shareBtn" type="button">아는 사장님한테 보내기</button>
-    <a class="pill" href="/try">다음 현장부터 5초로 막기</a>
+    <a class="pill" href="/try">5초 기록 체험해 보기</a>
   </div>
   <p class="note">입력한 숫자로만 계산한 추정치예요. 아무것도 저장하지 않아요.</p>
 </section>
@@ -84,11 +84,11 @@ document.querySelectorAll('#rate button').forEach(function (b) {
   b.onclick = function () { document.querySelectorAll('#rate button').forEach(function (x) { x.classList.remove('on'); }); b.classList.add('on'); S.rate = +b.dataset.v; calc(); };
 });
 var f = new URLSearchParams(location.search).get('y');
-if (f && /^\d+$/.test(f)) { var fb = document.getElementById('friend'); fb.style.display = 'block'; fb.textContent = '아는 사장님은 1년에 ' + man(+f) + '을 공짜로 깔아 줬대요. 사장님은요?'; }
+if (f && /^\d+$/.test(f)) { var fb = document.getElementById('friend'); fb.style.display = 'block'; fb.textContent = '아는 사장님은 기록만 해도 1년에 ' + man(+f) + ' 더 남는대요. 사장님은요?'; }
 calc();
 document.getElementById('shareBtn').onclick = function () {
   var y = calc();
-  share('형님, 저 1년에 ' + man(y) + ' 공짜로 깔아 줬대요 ㅋㅋ 형님도 해 보세요', 'https://www.someonehastosayyes.com/loss?y=' + y);
+  share('형님, 추가공사 그날 기록만 해도 1년에 ' + man(y) + ' 더 남는대요. 형님도 계산해 보세요', 'https://www.someonehastosayyes.com/loss?y=' + y);
 };
 </script>
 </main>

diff --git a/index.html b/index.html
@@ -4,12 +4,12 @@
 <meta charset="utf-8">
 <meta name="viewport" content="width=device-width, initial-scale=1">
 <title>추가공사 확인</title>
-<meta name="description" content="“서비스인 줄 알았어요.” 그 한마디에 35만원이 사라집니다. 추가공사, 한 줄 쓰고 카톡으로 보내면 고객이 확인하고 잔금 때 알아서 더해져요. 가입·설치 없음, 무료.">
+<meta name="description" content="말로 한 약속, 카톡 한 줄로 남겨요. 인테리어 추가공사를 그날 5초 만에 정리하면 사장님은 받을 돈이 분명해지고 고객님은 낼 돈을 미리 알아요. 가입·설치 없음, 무료.">
 <link rel="canonical" href="https://www.someonehastosayyes.com/">
 <meta property="og:type" content="website">
 <meta property="og:site_name" content="추가공사 확인">
 <meta property="og:title" content="추가공사 확인">
-<meta property="og:description" content="“서비스인 줄 알았어요.” 그 한마디에 35만원이 사라집니다. 추가공사, 한 줄 쓰고 카톡으로 보내면 고객이 확인하고 잔금 때 알아서 더해져요. 가입·설치 없음, 무료.">
+<meta property="og:description" content="말로 한 약속, 카톡 한 줄로 남겨요. 인테리어 추가공사를 그날 5초 만에 정리하면 사장님은 받을 돈이 분명해지고 고객님은 낼 돈을 미리 알아요. 가입·설치 없음, 무료.">
 <meta property="og:url" content="https://www.someonehastosayyes.com/">
 <meta property="og:locale" content="ko_KR">
 <meta property="og:image" content="https://www.someonehastosayyes.com/og/home.png">
@@ -31,9 +31,9 @@
 </nav></header>
 <main>
 <section class="hero">
-  <p style="margin:0 0 14px;font-size:20px;font-weight:600;color:var(--ink)">“서비스인 줄 알았어요.”</p>
-  <h1>그 한마디에<br><span style="color:#FF3B30">35만원</span>이 사라집니다.</h1>
-  <p>추가공사, 지금 5초면 끝나요. 한 줄 쓰고 카톡으로 보내면<br>고객이 확인하고, 잔금 때 알아서 더해져요.</p>
+  <p style="margin:0 0 14px;font-size:20px;font-weight:600;color:var(--sub)">인테리어 추가공사</p>
+  <h1>말로 한 약속,<br>카톡 한 줄로 남겨요.</h1>
+  <p>그날 5초면 정리돼요. 사장님은 받을 돈이 분명해지고,<br>고객님은 낼 돈을 미리 알아요.</p>
   <div class="ctas"><a class="pill big" href="/try">1분 체험해 보기</a><a class="pill big light" href="/free">무료 양식 받기</a></div>
   <small>가입·설치 없음 · 무료</small>
   <div class="shot" aria-label="고객이 카톡으로 받는 확인서 예시">
@@ -46,16 +46,16 @@
 </section>
 <section class="band" style="padding-top:40px"><div class="wrap">
   <div class="vs">
-    <a class="card" href="/loss" style="background:var(--ink);color:#fff;padding:36px"><span class="tag" style="color:rgba(255,255,255,.6)">사장님 · 30초 계산기</span><b style="font-size:28px">올해 공짜로 깔아 준 돈,<br>얼마예요?</b><p style="color:rgba(255,255,255,.7)">숫자 4개만 넣으면 나와요. 생각보다 큽니다.</p><span class="link-more" style="color:#fff;margin-top:8px">계산해 보기</span></a>
-    <a class="card" href="/bomb" style="background:var(--kakao-yellow);color:#191919;padding:36px"><span class="tag" style="color:#5C5300">집주인 · 30초 테스트</span><b style="font-size:28px">잔금 날, 추가금 폭탄<br>맞을 집일까?</b><p style="color:#5C5300">공사 중이라면 다섯 개 질문에 답해 보세요.</p><span class="link-more" style="margin-top:8px">테스트하기</span></a>
+    <a class="card" href="/loss" style="background:var(--ink);color:#fff;padding:36px"><span class="tag" style="color:rgba(255,255,255,.6)">사장님 · 30초 계산기</span><b style="font-size:28px">그날 기록만 해도,<br>1년에 얼마 더 남을까?</b><p style="color:rgba(255,255,255,.7)">숫자 4개만 넣으면 나와요.</p><span class="link-more" style="color:#fff;margin-top:8px">계산해 보기</span></a>
+    <a class="card" href="/ready" style="background:var(--kakao-yellow);color:#191919;padding:36px"><span class="tag" style="color:#5C5300">집주인 · 30초 체크</span><b style="font-size:28px">잔금 날, 깔끔하게<br>끝낼 준비 됐나요?</b><p style="color:#5C5300">공사 중이라면 다섯 가지만 확인해 보세요.</p><span class="link-more" style="margin-top:8px">확인하기</span></a>
   </div>
 </div></section>
 <section class="band soft"><div class="wrap">
-  <h2>나중에 하면 받기 어려워요.</h2>
-  <p class="lead">잔금 날 추가공사비 얘기를 꺼내면, 고객은 이미 잊었거나 서비스로 기억하고 있어요.</p>
+  <h2>그날 정리하면, 잔금 날이 편해요.</h2>
+  <p class="lead">누구 잘못도 아니에요. 몇 주 지나면 서로 기억이 조금씩 달라질 뿐이에요.</p>
   <div class="vs">
-    <div class="later"><h3>나중에 하면</h3><ul><li>돈 얘기 꺼내기 어렵고</li><li>“서비스인 줄 알았어요”</li><li>결국 깎아 주게 돼요</li></ul></div>
-    <div class="now"><h3>지금 5초 하면</h3><ul><li>한 줄 쓰고</li><li>카톡으로 보내면</li><li>잔금 때 알아서 더해져요</li></ul></div>
+    <div class="later"><h3>말로만 하면</h3><ul><li>금액이 서로 다르게 기억돼요</li><li>서비스였는지 헷갈려요</li><li>잔금 날 이야기가 길어져요</li></ul></div>
+    <div class="now"><h3>그날 한 줄 남기면</h3><ul><li>한 줄 쓰고</li><li>카톡으로 보내면</li><li>잔금 때 알아서 더해져요</li></ul></div>
   </div>
 </div></section>
 <section class="band"><div class="wrap">

diff --git a/guide/choose-contractor.html b/guide/choose-contractor.html
@@ -66,7 +66,7 @@
     <section class="sources"><h2>출처</h2><ul><li><a href="https://www.lawtalk.co.kr/posts/158853" target="_blank" rel="noopener">인테리어 및 건축 공사 추가공사대금 문제와 해결법 (로톡)</a></li><li><a href="https://www.lawtalk.co.kr/posts/164955" target="_blank" rel="noopener">공사대금 증액 분쟁 — 추가공사 지시받았는데 계약서에 없다면 (로톡)</a></li></ul><p class="disclaimer">이 글은 일반적인 정보이며 개별 사건에 대한 법률 자문이 아닙니다. 구체적인 사건은 변호사와 상담하세요.</p></section>
   </div>
 </article>
-<section class="band" style="padding-top:72px;padding-bottom:0"><div class="wrap"><h2 style="font-size:28px;text-align:left">함께 읽기</h2><div class="cards"><a class="card" href="/guide/homeowner-avoid-overcharge"><span class="tag">집주인을 위한 글</span><b>인테리어 추가공사 바가지 안 쓰는 법 5가지</b><p>추가공사 바가지는 대부분 ‘금액을 정하지 않고 진행한 공사’에서 생깁니다. 요청 전 금액 확인, 견적서 대조, 건별 확인서, 잔금 전 정산 확인 네 단계만 지키면 대부분 막을 수 있습니다.</p></a><a class="card" href="/guide/what-to-record"><span class="tag">사장님을 위한 글</span><b>추가공사할 때 고객한테 뭘 받아 둬야 나중에 안 싸우나요?</b><p>내용, 금액, 일정, 고객의 확인 네 가지를 한 메시지에 남기면 됩니다. 이 네 가지가 같이 있어야 잔금 때 “그건 서비스인 줄 알았다”는 말이 나오지 않습니다.</p></a><a class="card" href="/guide/how-to-talk-price"><span class="tag">사장님을 위한 글</span><b>추가공사 금액, 고객 기분 안 상하게 말하는 법 (문장 10개)</b><p>추가 요청을 받은 그 자리에서 금액을 먼저 말하고, 바로 정리해서 보내는 것이 가장 덜 어색합니다. 미루면 잔금 때 같은 말이 ‘청구’로 들립니다.</p></a></div></div></section>
+<section class="band" style="padding-top:72px;padding-bottom:0"><div class="wrap"><h2 style="font-size:28px;text-align:left">함께 읽기</h2><div class="cards"><a class="card" href="/guide/homeowner-avoid-overcharge"><span class="tag">집주인을 위한 글</span><b>인테리어 추가공사, 잔금 날 깔끔하게 끝내는 법 5가지</b><p>잔금 날 금액이 서로 다르게 기억되는 일은 대부분 ‘금액을 정하지 않고 진행한 추가공사’에서 생깁니다. 요청 전 금액 확인, 견적서 대조, 건별 확인, 잔금 전 정산 확인 네 단계만 지키면 사장님도 고객도 편하게 끝낼 수 있습니다.</p></a><a class="card" href="/guide/what-to-record"><span class="tag">사장님을 위한 글</span><b>추가공사할 때 고객한테 뭘 받아 둬야 나중에 안 싸우나요?</b><p>내용, 금액, 일정, 고객의 확인 네 가지를 한 메시지에 남기면 됩니다. 이 네 가지가 같이 있어야 잔금 때 “그건 서비스인 줄 알았다”는 말이 나오지 않습니다.</p></a><a class="card" href="/guide/how-to-talk-price"><span class="tag">사장님을 위한 글</span><b>추가공사 금액, 고객 기분 안 상하게 말하는 법 (문장 10개)</b><p>추가 요청을 받은 그 자리에서 금액을 먼저 말하고, 바로 정리해서 보내는 것이 가장 덜 어색합니다. 미루면 잔금 때 같은 말이 ‘청구’로 들립니다.</p></a></div></div></section>
 </main>
 <footer><div class="wrap">
   <p><a href="/guide">가이드</a><a href="/free">무료 양식</a><a href="/glossary">용어 사전</a><a href="/try">체험하기</a><a href="/about">소개</a></p>

diff --git a/try/index.html b/try/index.html
@@ -196,7 +196,7 @@ const icon = {
 
 function ownerLink() {
   return kChat('한결타일 사장님', `${kFrom('한', '한결타일 사장님', [
-      '<div class="bubble">형님, 잔금 때 추가공사비 깎였다던 거요</div>',
+      '<div class="bubble">형님, 추가공사 정리할 때 이거 편하더라고요</div>',
       '<div class="bubble">이거 한번 써 보세요. 무료래요</div>',
       `<button class="linkcard" data-act="go" data-v="intro" style="padding:0">
         <span style="display:block;width:100%;padding:22px 16px;background:#111;color:#fff;font-size:20px;font-weight:700;line-height:1.3">추가공사,<br>지금 5초면 끝나요.</span>
@@ -209,11 +209,11 @@ function ownerIntro() {
   return `<div class="screen"><div class="scroll pad" style="padding-top:56px;display:flex;flex-direction:column;gap:12px">
       <h1 style="margin-bottom:18px">추가공사,<br>지금 5초면<br>끝나요.</h1>
       <div class="group" style="padding:18px;display:flex;flex-direction:column;gap:10px">
-        <span class="small" style="font-weight:600">나중에 하면</span>
-        <span>✕&nbsp; 돈 얘기 꺼내기 어렵고</span><span>✕&nbsp; “서비스인 줄 알았어요”</span><span>✕&nbsp; 결국 깎아 주게 돼요</span>
+        <span class="small" style="font-weight:600">말로만 하면</span>
+        <span>·&nbsp; 금액이 서로 다르게 기억돼요</span><span>·&nbsp; 서비스였는지 헷갈려요</span><span>·&nbsp; 잔금 날 이야기가 길어져요</span>
       </div>
       <div class="group" style="padding:18px;display:flex;flex-direction:column;gap:10px;background:var(--ink);color:#fff">
-        <span style="font-size:13px;font-weight:600;color:#AEAEB2">지금 5초 하면</span>
+        <span style="font-size:13px;font-weight:600;color:#AEAEB2">그날 한 줄 남기면</span>
         <span><b style="color:#30D158">✓</b>&nbsp; 한 줄 쓰고</span><span><b style="color:#30D158">✓</b>&nbsp; 카톡으로 보내면</span><span><b style="color:#30D158">✓</b>&nbsp; 잔금 때 알아서 더해져요</span>
       </div>
     </div>

diff --git a/about.html b/about.html
@@ -38,7 +38,7 @@
   <ul>
     <li><b>추가공사 확인:</b> 한 줄 쓰면 확인서가 만들어지고, 카톡으로 보내면 고객이 [확인]을 누르고, 잔금 때 확인된 것만 합산돼요. <a href="/try">체험하기</a></li>
     <li><b>가이드:</b> 추가공사 기록, 금액 얘기, 카톡 확인, 잔금 정산을 현장 말로 정리해요. <a href="/guide">가이드 보기</a></li>
-    <li><b>무료 양식과 도구:</b> 확인서 양식, 카톡 문구, 정산 계산기, <a href="/loss">공짜 계산기</a>, <a href="/bomb">잔금 폭탄 테스트</a>.</li>
+    <li><b>무료 양식과 도구:</b> 확인서 양식, 카톡 문구, 정산 계산기, <a href="/loss">기록 계산기</a>, <a href="/ready">잔금 날 준비 체크</a>.</li>
   </ul>
   <h2>글을 쓰는 원칙</h2>
   <ol>
